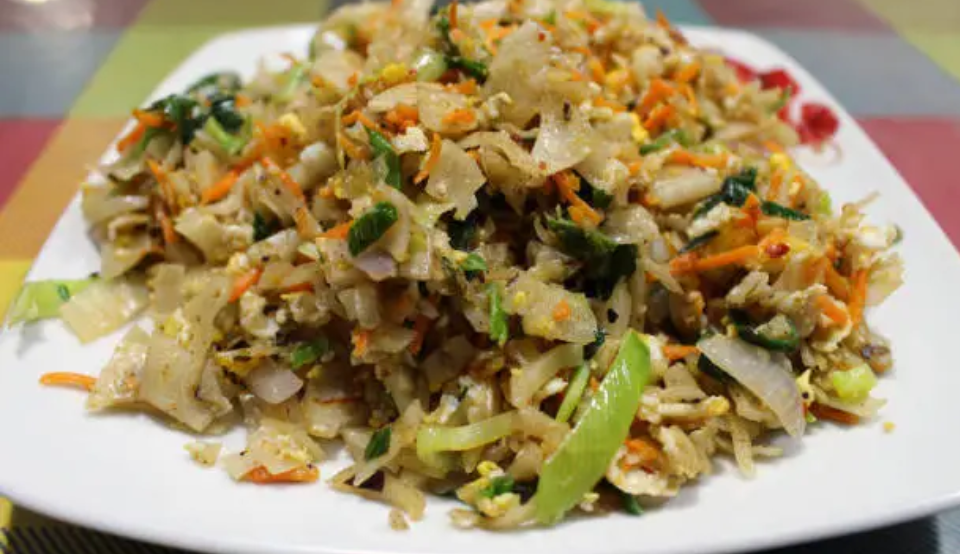
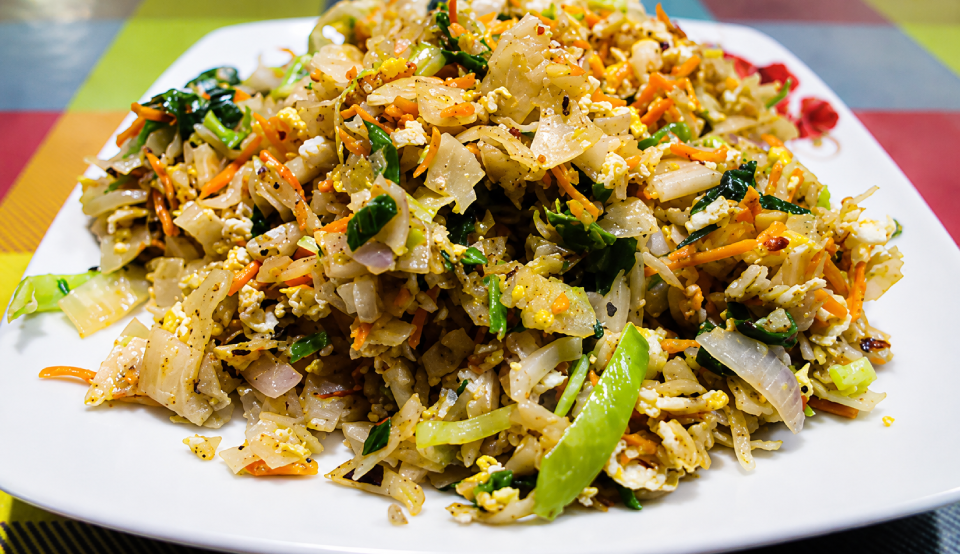
correction completed

diff --git a/menu.html b/menu.html
@@ -257,7 +257,8 @@
                                                 <div class="themesflat-container">
                                                     <div class="row">
                                                         <div class="col-lg-6">
-                                                            <div class="heading-section text-center mb-77 wow fadeInUp"
+                                                            <div class="heading-section text-center mb-77 
+                                                            wow fadeInUp"
                                                                 data-wow-delay="0.1s">
                                                                 <span
                                                                     class="sub sub-before sub-after style-big">Starters
@@ -510,7 +511,7 @@
                                                                     </div>
                                                                 </div>
                                                             </div>
-                                                            <div class="special-menu-item wow fadeInUp">
+                                                            <div class="special-menu-item ">
                                                                 <div class="content flex-grow">
                                                                     <div class="flex items-center">
                                                                         <div class="name"><a href="#">Veg Rolls (2pcs)
@@ -520,7 +521,7 @@
                                                                     </div>
                                                                 </div>
                                                             </div>
-                                                            <div class="special-menu-item wow fadeInUp">
+                                                            <div class="special-menu-item ">
 
                                                                 <div class="content flex-grow">
                                                                     <div class="flex items-center">
@@ -531,7 +532,7 @@
                                                                     </div>
                                                                 </div>
                                                             </div>
-                                                            <div class="special-menu-item wow fadeInUp">
+                                                            <div class="special-menu-item ">
 
                                                                 <div class="content flex-grow">
                                                                     <div class="flex items-center">
@@ -542,7 +543,7 @@
                                                                     </div>
                                                                 </div>
                                                             </div>
-                                                            <div class="special-menu-item wow fadeInUp">
+                                                            <div class="special-menu-item ">
 
                                                                 <div class="content flex-grow">
                                                                     <div class="flex items-center">
@@ -553,7 +554,7 @@
                                                                     </div>
                                                                 </div>
                                                             </div>
-                                                            <div class="special-menu-item wow fadeInUp">
+                                                            <div class="special-menu-item ">
 
                                                                 <div class="content flex-grow">
                                                                     <div class="flex items-center">
@@ -564,7 +565,7 @@
                                                                     </div>
                                                                 </div>
                                                             </div>
-                                                            <div class="special-menu-item wow fadeInUp">
+                                                            <div class="special-menu-item ">
 
                                                                 <div class="content flex-grow">
                                                                     <div class="flex items-center">
@@ -575,7 +576,7 @@
                                                                     </div>
                                                                 </div>
                                                             </div>
-                                                            <div class="special-menu-item wow fadeInUp">
+                                                            <div class="special-menu-item">
 
                                                                 <div class="content flex-grow">
                                                                     <div class="flex items-center">
@@ -586,7 +587,7 @@
                                                                     </div>
                                                                 </div>
                                                             </div>
-                                                            <div class="special-menu-item wow fadeInUp">
+                                                            <div class="special-menu-item">
 
                                                                 <div class="content flex-grow">
                                                                     <div class="flex items-center">
@@ -597,7 +598,7 @@
                                                                     </div>
                                                                 </div>
                                                             </div>
-                                                            <div class="special-menu-item wow fadeInUp">
+                                                            <div class="special-menu-item ">
 
                                                                 <div class="content flex-grow">
                                                                     <div class="flex items-center">
@@ -621,11 +622,11 @@
                                                 <div class="themesflat-container">
                                                     <div class="row">
                                                         <div class="col-lg-6">
-                                                            <div class="heading-section text-center mb-77 wow ">
+                                                            <div class="heading-section text-center mb-77 ">
                                                                 <span class="sub sub-before sub-after style-big">Curry
                                                                     Non-Veg</span>
                                                             </div>
-                                                            <div class="special-menu-item wow fadeInUp"
+                                                            <div class="special-menu-item "
                                                                 data-wow-delay="0.1s">
                                                                 <div class="content flex-grow">
                                                                     <div class="flex items-center">
@@ -636,7 +637,7 @@
                                                                     </div>
                                                                 </div>
                                                             </div>
-                                                            <div class="special-menu-item wow fadeInUp"
+                                                            <div class="special-menu-item "
                                                                 data-wow-delay="0.1s">
                                                                 <div class="content flex-grow">
                                                                     <div class="flex items-center">
@@ -647,7 +648,7 @@
                                                                     </div>
                                                                 </div>
                                                             </div>
-                                                            <div class="special-menu-item wow fadeInUp mt-0"
+                                                            <div class="special-menu-item  mt-0"
                                                                 data-wow-delay="0.1s">
                                                                 <div class="content flex-grow">
                                                                     <div class="flex items-center">
@@ -658,7 +659,7 @@
                                                                     </div>
                                                                 </div>
                                                             </div>
-                                                            <div class="special-menu-item wow fadeInUp"
+                                                            <div class="special-menu-item "
                                                                 data-wow-delay="0.1s">
                                                                 <div class="content flex-grow">
                                                                     <div class="flex items-center">
@@ -669,7 +670,7 @@
                                                                     </div>
                                                                 </div>
                                                             </div>
-                                                            <div class="special-menu-item wow fadeInUp"
+                                                            <div class="special-menu-item "
                                                                 data-wow-delay="0.1s">
                                                                 <div class="content flex-grow">
                                                                     <div class="flex items-center">
@@ -680,7 +681,7 @@
                                                                     </div>
                                                                 </div>
                                                             </div>
-                                                            <div class="special-menu-item wow fadeInUp"
+                                                            <div class="special-menu-item "
                                                                 data-wow-delay="0.1s">
                                                                 <div class="content flex-grow">
                                                                     <div class="flex items-center">
@@ -691,7 +692,7 @@
                                                                     </div>
                                                                 </div>
                                                             </div>
-                                                            <div class="special-menu-item wow fadeInUp"
+                                                            <div class="special-menu-item "
                                                                 data-wow-delay="0.1s">
                                                                 <div class="content flex-grow">
                                                                     <div class="flex items-center">
@@ -704,11 +705,11 @@
                                                             </div>
                                                         </div>
                                                         <div class="col-lg-6">
-                                                            <div class="heading-section text-center mb-77 wow ">
+                                                            <div class="heading-section text-center mb-77  ">
                                                                 <span class="sub sub-before sub-after style-big">Curry
                                                                     Veg</span>
                                                             </div>
-                                                            <div class="special-menu-item wow fadeInUp">
+                                                            <div class="special-menu-item ">
                                                                 <div class="content flex-grow">
                                                                     <div class="flex items-center">
                                                                         <div class="name"><a href="#">Potato & Tomato
@@ -719,7 +720,7 @@
                                                                     </div>
                                                                 </div>
                                                             </div>
-                                                            <div class="special-menu-item wow fadeInUp ">
+                                                            <div class="special-menu-item  ">
                                                                 <div class="content flex-grow">
                                                                     <div class="flex items-center">
                                                                         <div class="name"><a href="#">Soya Meat
@@ -818,7 +819,7 @@
                                                             </div>
                                                         </div>
                                                         <div class="col-lg-6">
-                                                            <div class="heading-section text-center mb-77 wow ">
+                                                            <div class="heading-section text-center mb-77">
                                                                 <span class="sub sub-before sub-after style-big">Cold
                                                                     Drinks</span>
                                                             </div>
@@ -875,12 +876,12 @@
                                                 <div class="themesflat-container">
                                                     <div class="row">
                                                         <div class="col-lg-6">
-                                                            <div class="heading-section text-center mb-77 wow " ">
+                                                            <div class="heading-section text-center mb-77  " >
                                                                 <span
                                                                     class=" sub sub-before sub-after style-big">
                                                                 Briyani</span>
                                                             </div>
-                                                            <div class="special-menu-item wow fadeInUp"
+                                                            <div class="special-menu-item"
                                                                 data-wow-delay="0.1s">
                                                                 <div class="content flex-grow">
                                                                     <div class="flex items-center">
@@ -927,11 +928,11 @@
                                                             </div>
                                                         </div>
                                                         <div class="col-lg-6">
-                                                            <div class="heading-section text-center mb-77 wow ">
+                                                            <div class="heading-section text-center mb-77  ">
                                                                 <span
                                                                     class="sub sub-before sub-after style-big">Desserts</span>
                                                             </div>
-                                                            <div class="special-menu-item wow fadeInUp">
+                                                            <div class="special-menu-item ">
                                                                 <div class="content flex-grow">
                                                                     <div class="flex items-center">
                                                                         <div class="name"><a href="#">Kesari</a>
@@ -973,7 +974,7 @@
                                                 <div class="themesflat-container">
                                                     <div class="row">
                                                         <div class="col-lg-6">
-                                                            <div class="heading-section text-center mb-77 wow ">
+                                                            <div class="heading-section text-center mb-77  ">
                                                                 <span class="sub sub-before sub-after style-big">Fried
                                                                     Rice</span>
                                                             </div>
@@ -1046,7 +1047,7 @@
                                                             </div>
                                                         </div>
                                                         <div class="col-lg-6">
-                                                            <div class="heading-section text-center mb-77 wow ">
+                                                            <div class="heading-section text-center mb-77  ">
                                                                 <span
                                                                     class="sub sub-before sub-after style-big">Seasonal
                                                                     Juice Fruits</span>
@@ -1093,11 +1094,11 @@
                                                 <div class="themesflat-container">
                                                     <div class="row">
                                                         <div class="col-lg-6">
-                                                            <div class="heading-section text-center mb-77 wow ">
+                                                            <div class="heading-section text-center mb-77 ">
                                                                 <span
                                                                     class="sub sub-before sub-after style-big">Noodles</span>
                                                             </div>
-                                                            <div class="special-menu-item wow ">
+                                                            <div class="special-menu-item  ">
 
                                                                 <div class="content flex-grow">
                                                                     <div class="flex items-center">
@@ -1187,11 +1188,11 @@
 
                                                         </div>
                                                         <div class="col-lg-6">
-                                                            <div class="heading-section text-center mb-77 wow fadeInUp">
+                                                            <div class="heading-section text-center mb-77 ">
                                                                 <span class="sub sub-before sub-after style-big">Hot
                                                                     Drinks </span>
                                                             </div>
-                                                            <div class="special-menu-item wow fadeInUp">
+                                                            <div class="special-menu-item ">
 
                                                                 <div class="content flex-grow">
                                                                     <div class="flex items-center">
@@ -1387,15 +1388,24 @@
                 </div>
                 <div class="right wow fadeInLeft animated" style="visibility: visible; animation-name: fadeInLeft;">
                     <div class="swiper-container swiper-container-initialized swiper-container-horizontal swiper-container-pointer-events"
-                        data-swiper="{
-                            &quot;spaceBetween&quot;: 0,
-                            &quot;slidesPerView&quot;: 1,
-                            &quot;navigation&quot;: {
-                                &quot;nextEl&quot;: &quot;.private-next&quot;,
-                                &quot;prevEl&quot;: &quot;.private-prev&quot;
-                            }
+                        data-swiper='{
 
-                        }">
+        "spaceBetween": 0,
+        "slidesPerView": 1,
+
+        "autoplay": {
+            "delay": 3000,
+            "disableOnInteraction": false
+        },
+
+        "loop": true,
+
+        "navigation": {
+            "nextEl": ".private-next",
+            "prevEl": ".private-prev"
+        }
+
+    }'>
                         <div class="swiper-wrapper" id="swiper-wrapper-dde3dec885309ac6" aria-live="polite"
                             style="transform: translate3d(0px, 0px, 0px);">
                             <div class="swiper-slide swiper-slide-active" role="group" aria-label="1 / 3"
@@ -1501,15 +1511,24 @@
                 </div>
                 <div class="right wow fadeInRight animated" style="visibility: visible; animation-name: fadeInRight;">
                     <div class="swiper-container swiper-container-initialized swiper-container-horizontal swiper-container-pointer-events"
-                        data-swiper="{
-                            &quot;spaceBetween&quot;: 0,
-                            &quot;slidesPerView&quot;: 1,
-                            &quot;navigation&quot;: {
-                                &quot;nextEl&quot;: &quot;.private-next&quot;,
-                                &quot;prevEl&quot;: &quot;.private-prev&quot;
-                            }
+                       data-swiper='{
 
-                        }">
+        "spaceBetween": 0,
+        "slidesPerView": 1,
+
+        "autoplay": {
+            "delay": 3000,
+            "disableOnInteraction": false
+        },
+
+        "loop": true,
+
+        "navigation": {
+            "nextEl": ".private-next",
+            "prevEl": ".private-prev"
+        }
+
+    }'>
                         <div class="swiper-wrapper" id="swiper-wrapper-acf21fa9a88ea446" aria-live="polite"
                             style="transform: translate3d(0px, 0px, 0px);">
                             <div class="swiper-slide swiper-slide-active" role="group" aria-label="1 / 3"